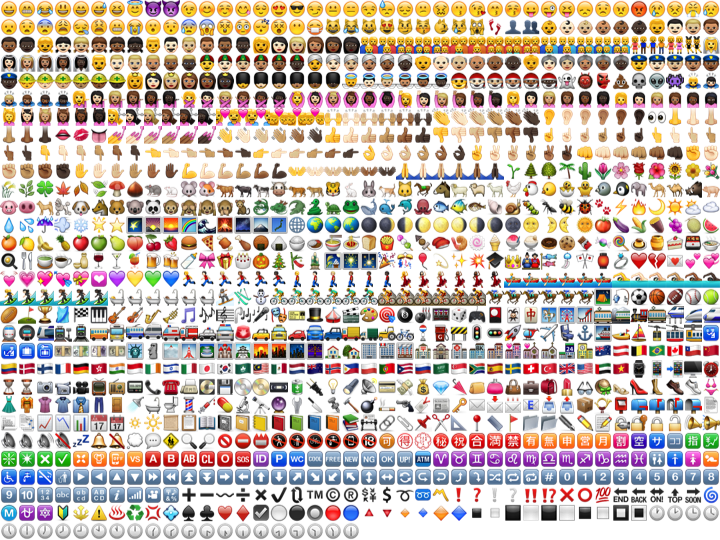
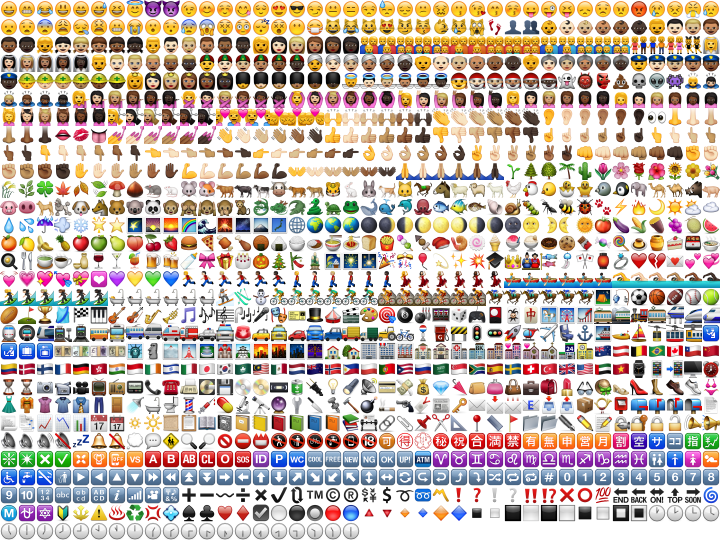
emoji sprites improved

diff --git a/Telegram/SourceFiles/_other/genemoji.cpp b/Telegram/SourceFiles/_other/genemoji.cpp
@@ -96,9 +96,9 @@ const uint32 replacesCount = sizeof(replaces) / sizeof(EmojiReplace);
 typedef QMap<QString, uint32> ReplaceMap;
 ReplaceMap replaceMap;
 
-static const int variantsCount = 5, inRow = 40, imSizes[] = { 18, 22, 27, 36, 45 };
-static const int emojiFontSizes[] = { 14, 20, 27, 36, 45 };
-static const int emojiDeltas[] = { 15, 20, 25, 34, 42 };
+static const int variantsCount = 5, inRow = 40, imSizes[] = { 18, 22, 27, 36, 45, 180 }, badSizes[] = { 1, 1, 0, 0, 0 };
+static const int emojiFontSizes[] = { 14, 20, 27, 36, 45, 180 };
+static const int emojiDeltas[] = { 15, 20, 25, 34, 42, 167 };
 static const char *variantPostfix[] = { "", "_125x", "_150x", "_200x", "_250x" };
 static const char *variantNames[] = { "dbisOne", "dbisOneAndQuarter", "dbisOneAndHalf", "dbisTwo" };
 
@@ -1382,23 +1382,32 @@ bool genEmoji(QString, const QString &emoji_out, const QString &emoji_png) {
 	QStringList str = QFontDatabase::applicationFontFamilies(QFontDatabase::addApplicationFont(QStringLiteral("/System/Library/Fonts/Apple Color Emoji.ttf")));
 
 	for (int variantIndex = 0; variantIndex < variantsCount; variantIndex++) {
-		int imSize = imSizes[variantIndex];
+		int imSize = imSizes[variantIndex], bad = badSizes[variantIndex], badSize = (bad ? imSizes[5] : imSize);
 
 		QFont f(QGuiApplication::font());
 		f.setFamily(QStringLiteral("Apple Color Emoji"));
-		f.setPixelSize(emojiFontSizes[variantIndex]);
+		f.setPixelSize(emojiFontSizes[bad ? 5 : variantIndex]);
 
-		int s = 4 + imSize;
+		int s = 4 + badSize;
+		QImage badImg(inRow * badSize, currentRow * badSize, QImage::Format_ARGB32);
 		QImage emojisImg(inRow * imSize, currentRow * imSize, QImage::Format_ARGB32), emojiImg(s, s, QImage::Format_ARGB32);
 		{
-			QPainter p(&emojisImg);
+			QPainter p(&emojisImg), q(&badImg);
 			QPainter::CompositionMode m = p.compositionMode();
 			p.setCompositionMode(QPainter::CompositionMode_Source);
 			p.fillRect(0, 0, emojisImg.width(), emojisImg.height(), Qt::transparent);
 			p.setCompositionMode(m);
 			p.setRenderHint(QPainter::SmoothPixmapTransform);
+			if (bad) {
+				QPainter::CompositionMode m = q.compositionMode();
+				q.setCompositionMode(QPainter::CompositionMode_Source);
+				q.fillRect(0, 0, emojisImg.width(), emojisImg.height(), Qt::transparent);
+				q.setCompositionMode(m);
+				q.setRenderHint(QPainter::SmoothPixmapTransform);
+			}
 			for (EmojisData::const_iterator it = emojisData.cbegin(), e = emojisData.cend(); it != e; ++it) {
-				QRect drawFrom(2, 2, imSize, imSize);
+				QRect drawFrom(2, 2, badSize, badSize);
+				QString es = textEmojiString(&it.value());
 				{
 					QPainter q(&emojiImg);
 					q.setPen(QColor(0, 0, 0, 255));
@@ -1407,7 +1416,7 @@ bool genEmoji(QString, const QString &emoji_out, const QString &emoji_png) {
 					q.setCompositionMode(QPainter::CompositionMode_Source);
 					q.fillRect(0, 0, emojiImg.width(), emojiImg.height(), Qt::transparent);
 					q.setCompositionMode(m);
-					q.drawText(2, 2 + emojiDeltas[variantIndex], textEmojiString(&it.value()));
+					q.drawText(2, 2 + emojiDeltas[bad ? 5 : variantIndex], es);
 				}
 				int top = 1, bottom = 1, left = 1, right = 1;
 				QRgb *b = (QRgb*)emojiImg.bits();
@@ -1455,10 +1464,17 @@ bool genEmoji(QString, const QString &emoji_out, const QString &emoji_png) {
 						drawFrom.setX(drawFrom.x() - 1);
 					}
 				}
-				p.drawImage(QRect(it->x * imSize, it->y * imSize, imSize, imSize), emojiImg, drawFrom);
+				if (bad) {
+					p.drawImage(QRect(it->x * imSize, it->y * imSize, imSize, imSize), emojiImg.copy(2, 2, badSize, badSize).scaled(imSize, imSize, Qt::IgnoreAspectRatio, Qt::SmoothTransformation));
+					q.drawImage(QRect(it->x * badSize, it->y * badSize, badSize, badSize), emojiImg, QRect(2, 2, badSize, badSize));
+				} else {
+					p.drawImage(QRect(it->x * imSize, it->y * imSize, imSize, imSize), emojiImg, drawFrom);
+				}
 			}
 		}
 		QString postfix = variantPostfix[variantIndex], emojif = emoji_png + postfix + ".webp";
+//		emojisImg.save(emoji_png + postfix + ".png");
+//		if (bad) badImg.save(emoji_png + "_bad.png");
 		QByteArray emojib;
 		{
 			QBuffer ebuf(&emojib);
